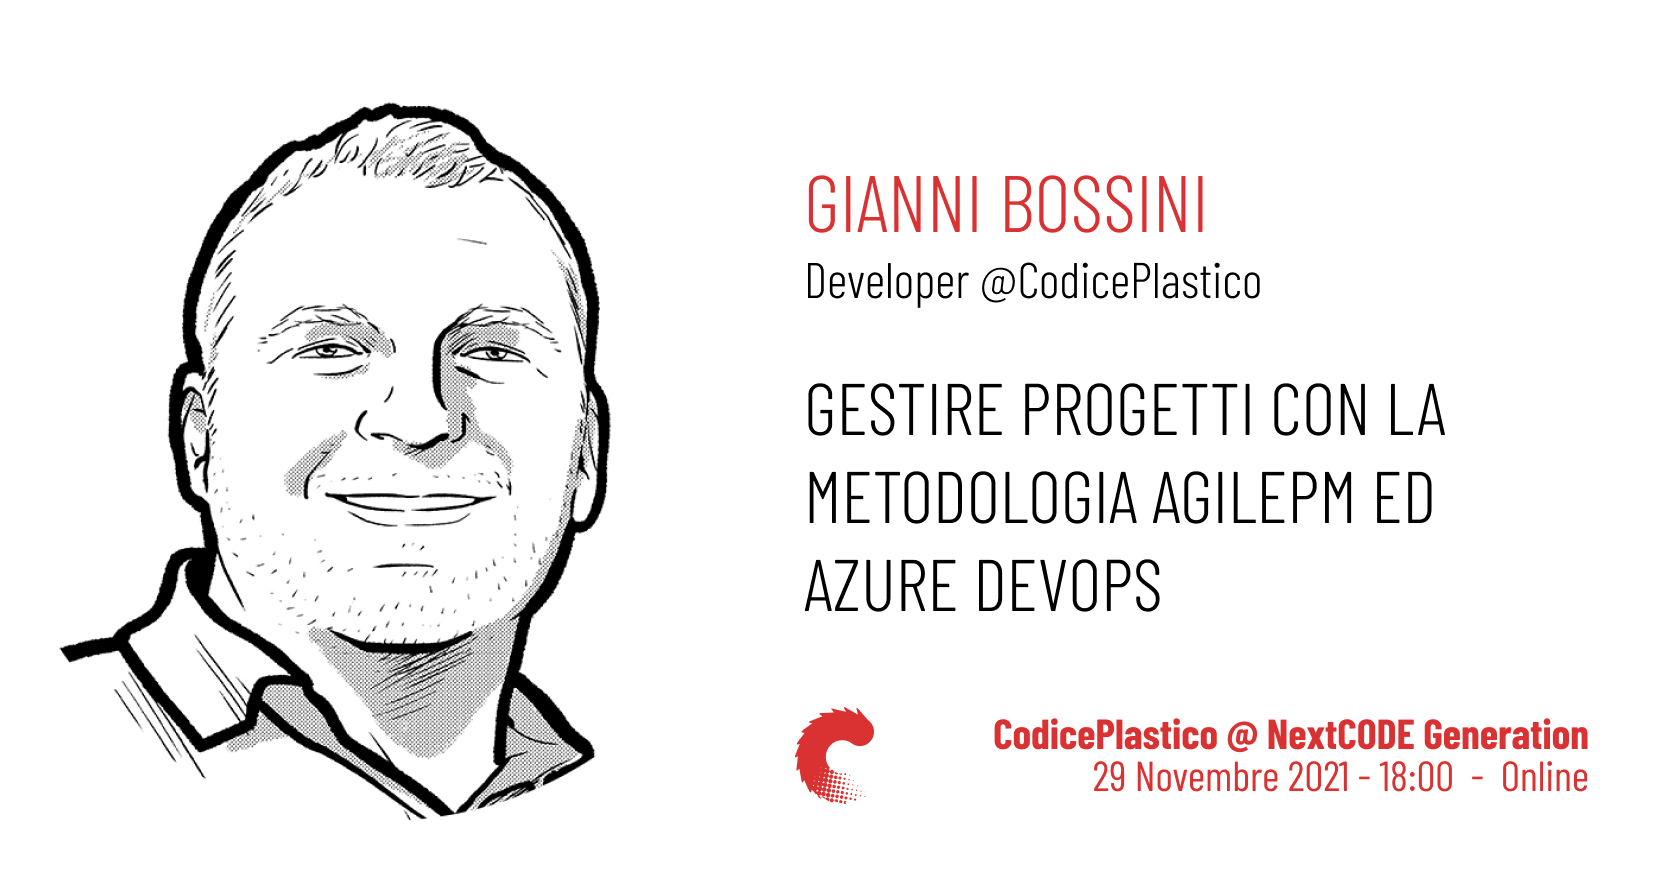
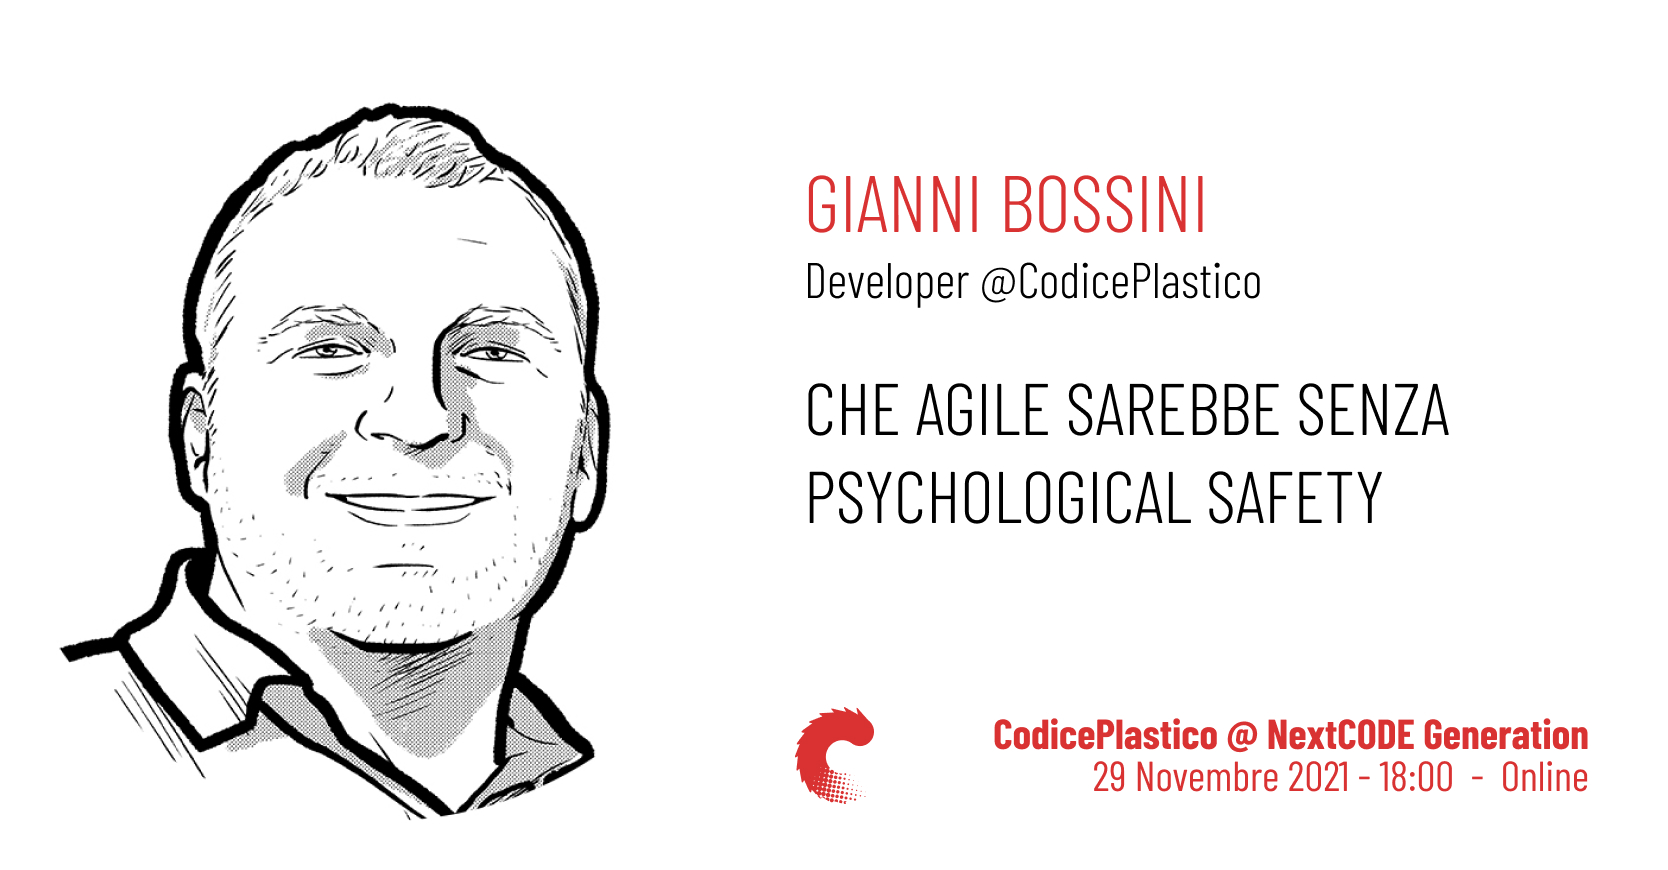
Fix evento gianni

Changed region(s): [[0.4676, 0.5276, 0.8729, 0.7138], [0.4988, 0.4345, 0.8729, 0.4966]]

diff --git a/_events/20211129-csmt-agile-pm-azure.md b/_events/20211129-csmt-agile-pm-azure.md
@@ -1,26 +1,19 @@
 ---
 layout: event
 title: "NextCODE Generation"
-talk-title: "Gestire progetti con la metodologia AgilePM ed Azure DevOp"
+talk-title: "Che Agile sarebbe senza Psychological Safety"
 event-date-start: 2021-11-29 18:00:00
 talk-info-track: ''
 location: Online
 org: NextCODE Generation
-event-link: https://nextcodegeneration.it/2021/11/16/gestire-progetti-con-la-metodologia-agilepm-ed-azure-devops-online-29-novembre-ore-1800/
+event-link: #
 org-link: https://nextcodegeneration.it/
 org-twitter: CSMTgestione
 cover: 'assets/images/events/event_cluster.png'
 socialcover: 'assets/images/events/20211129.jpg'
-slug: 'csmt-agile-pm-azure'
+slug: 'psychological-safety-agile'
 author: [gianni]
 
 ---
 ## Abstract
-Una sessione dedicata alla metodologia AgilePM per la gestione a 360 gradi dei progetti, a cura di Gianni Bossini di CodicePlastico e Gaetano Paterno di Blexin, in programma lunedì 29 novembre alle ore 18.
-
-AgilePM è una metodologia Agile strutturata che aiuta a gestire i progetti a 360 gradi.
-Per gestire il progetto è necessario uno strumento che consenta di rendere operative tutte le persone in base al ruolo e di produrre i documenti previsti dalla metodologia.
-
-Durante la sessione vedremo come gestire un progetto AgilePM utilizzando Azure DevOps.
-
-E poi… la nostra consueta NextCODE Challenge, una sfida di problem solving e coding aperta a tutti!
+L'Agile è ovunque, i post che celebrano il conseguimento di una certificazione anche e tutti usano Scrum. Ma poi scopri che i team non fanno retrospettive, che tra colleghi non si parla e che il fallimento... beh... non è visto di buon occhio dal capo. Per essere realmente agili ai team serve quel pizzico di magia che rende tutto più... Agile!
